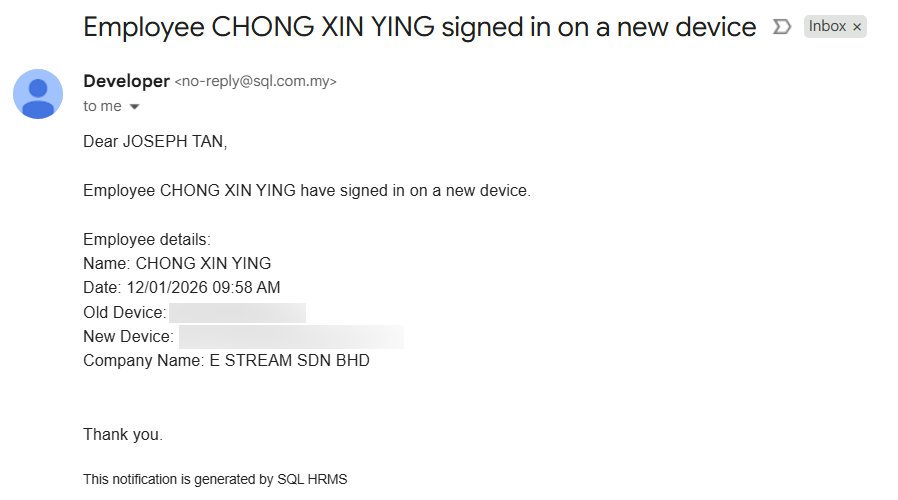
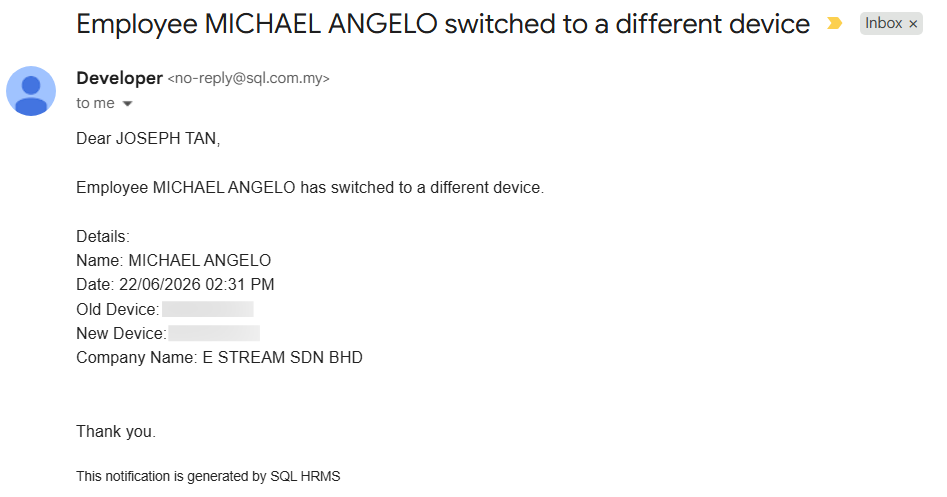
Update switch device

diff --git a/docs/integration/hrms/e-tms/app-usage.md b/docs/integration/hrms/e-tms/app-usage.md
@@ -287,8 +287,8 @@ The notification will appear after employee clocked in and has **_'GPS Monitorin
 - The employee will receive an app notification once their manager adjusted their attendance log
   ![adjusted-log-notification2](../../../../static/img/integration/hrms/e-tms/adjusted-log-notification2.png)
 
-### Employee login from a different device
+### Employee Switched Device
 
-- Managers will receive an email notification when his team use a different device to login to the app
-- The purpose is to help manager keep track if there are any employees that might help their friends to clock in/out
+- Managers will receive an email notification when his team members switch to a different device 
+- The purpose is to help manager keep track if there are any employees that might help their friends to clock in / out
   ![different-device-notification](../../../../static/img/integration/hrms/e-tms/different-device-notification.png)
